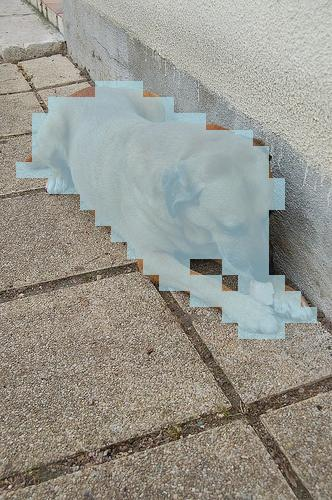
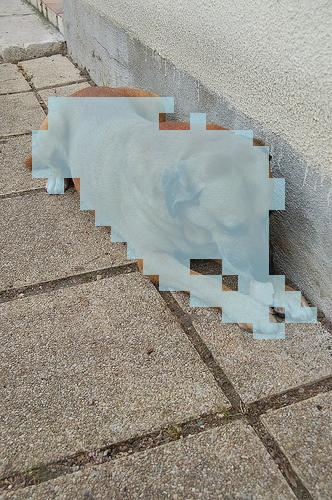
added graph diffusion - better results in occlusion

diff --git a/unsupervised_saliency_detection/object_discovery.py b/unsupervised_saliency_detection/object_discovery.py
@@ -24,6 +24,7 @@ def ncut(feats, dims, scales, init_image_size, tau = 0, eps=1e-5, im_name='', no
     feats = F.normalize(feats, p=2, dim=0)
     A = (feats.transpose(0,1) @ feats)
     A = A.cpu().numpy()
+    A = A + 0.1*(A@A)  
     A_raw = A.copy()  # save raw cosine similarities before thresholding
     if no_binary_graph:
         A[A<tau] = eps
@@ -63,7 +64,7 @@ def ncut(feats, dims, scales, init_image_size, tau = 0, eps=1e-5, im_name='', no
     eigvec = second_smallest_vec.reshape(dims) 
     eigvec = torch.from_numpy(eigvec).to('cpu')
     eigvec = F.interpolate(eigvec.unsqueeze(0).unsqueeze(0), size=init_image_size, mode='nearest').squeeze()
-    return  seed, bipartition.cpu().numpy(), eigvec.cpu().numpy(), A_raw
+    return  seed, bipartition.cpu().numpy(), eigvec.cpu().numpy(), A
 
 def detect_box(bipartition, seed,  dims, initial_im_size=None, scales=None, principle_object=True):
     """
